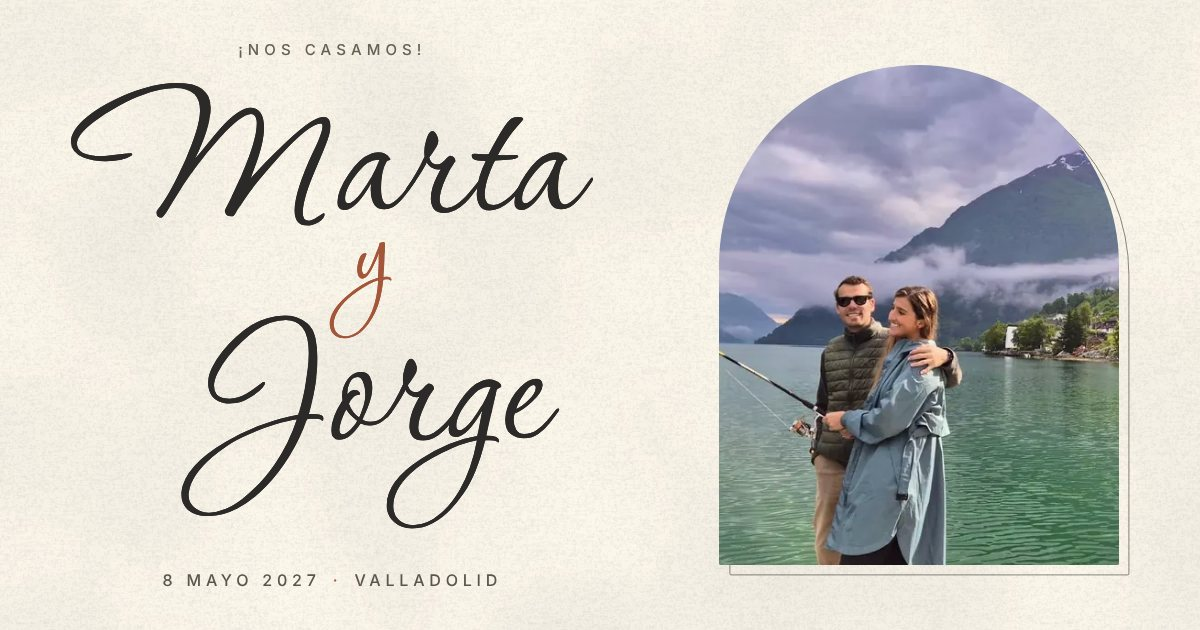
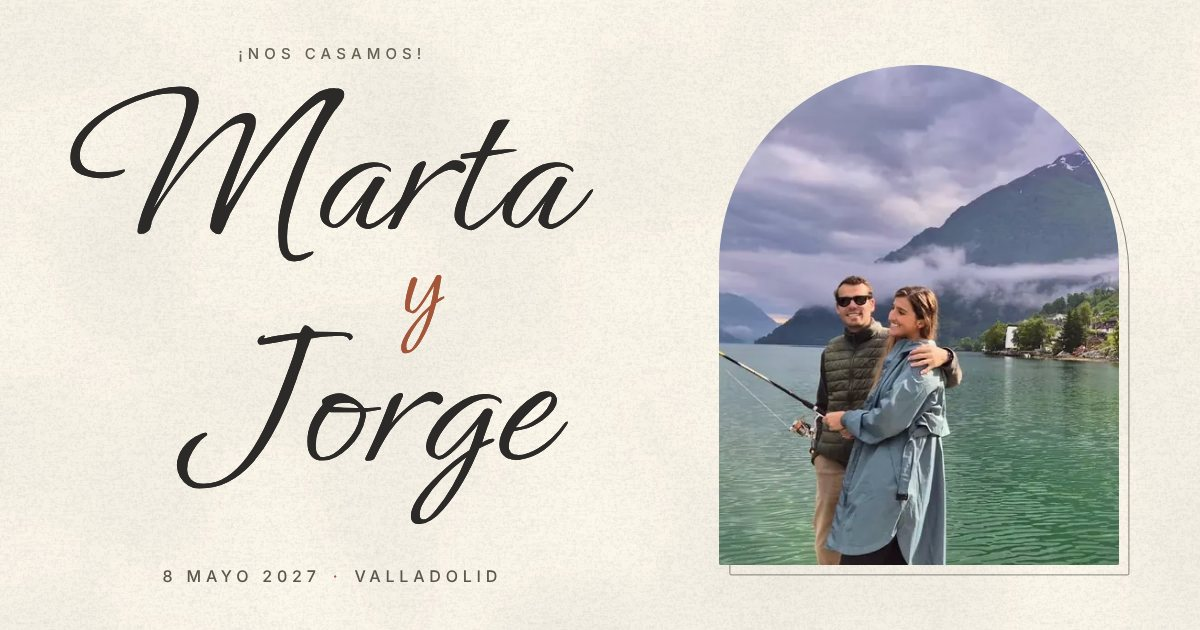
Caligrafía Ephesis para los nombres y los títulos
- «Marta y Jorge» y todos los títulos pasan a la Ephesis: pluma fina, elegante y con mayúsculas legibles. Los nombres
  se siguen escribiendo trazo a trazo; el generador (scripts/intro) usa ahora la fuente autoalojada por defecto
  (FUENTE=… para probar otra) y tiene un mecanismo de ajustes por letra (sentido, uniones y cortes de trazo).
- El «¡Gracias, nombre!» vuelve a la caligrafía, ya que con la Ephesis las iniciales de cualquier nombre se leen bien.
- Imagen para compartir (og.jpg) regenerada; README y docs al día. Se quita la Corinthia.

Claude-Session: https://claude.ai/code/session_012SwaV5w8ejSnD59z4DQnn6

Changed region(s): [[0.0617, 0.1206, 0.4933, 0.8444], [0.1233, 0.9048, 0.4317, 0.9349], [0.185, 0.0603, 0.3392, 0.0905]]

diff --git a/public/index.html b/public/index.html
@@ -52,7 +52,7 @@
       <p class="etiqueta portada__aviso intro" style="--d:.75s">¡Nos casamos!</p>
       <h1 class="nombres">
         <span class="sr-only">Marta y Jorge</span>
-        <svg class="nombres__svg" viewBox="-1199 -601 2398 2058" aria-hidden="true" focusable="false"><defs><path id="g1" d="M999 -72Q942 -72 942 -5Q942 39 966 112Q975 139 988.5 173.5Q1002 208 1021 248Q1031 269 1036.5 280.5Q1042 292 1046.5 302.5Q1051 313 1057 330Q1062 344 1064 353.5Q1066 363 1066 370Q1066 381 1059 381Q1008 381 877 238Q831 187 791 139Q751 91 719 44L686 -6Q684 -11 679.5 -17Q675 -23 670 -30Q667 -31 662 -31Q632 -31 632 -7Q632 -1 635 3Q636 5 645 21.5Q654 38 673 79Q774 290 774 381Q774 423 748 423Q706 423 608 316Q551 253 499.5 183Q448 113 400 33L378 -4Q362 -30 352 -37Q329 -37 329 -15Q329 -7 333 -3Q387 63 452 209Q487 287 504.5 344.5Q522 402 522 439Q522 539 412 539Q383 539 348 532Q313 525 272 510Q242 500 216 488Q190 476 160 459Q101 427 51 389Q-25 331 -25 292Q-25 236 84 236Q95 236 112 237.5Q129 239 148 242Q193 249 213 249Q221 249 221 245Q221 241 216 238Q182 214 103 214Q44 214 5 230Q-51 253 -51 301Q-51 353 24 413Q50 434 79 452Q108 470 145 488Q175 502 202 513Q229 524 266 535Q310 549 349.5 555Q389 561 423 561Q569 561 569 450Q569 361 497 221Q526 255 555.5 291.5Q585 328 611 358Q653 405 687 428Q721 451 746 451Q806 451 806 361Q806 282 745 135Q780 174 815.5 211Q851 248 890 285Q1000 391 1048 406Q1060 410 1070 410Q1101 410 1101 370Q1101 338 1081 289Q1064 246 1049.5 212.5Q1035 179 1018 137Q997 85 987.5 46.5Q978 8 978 -15Q978 -51 1005 -51Q1019 -51 1043 -34Q1068 -17 1071 -17Q1075 -17 1075 -22Q1075 -42 1048 -57Q1020 -72 999 -72Z"/><clipPath id="cp1"><use href="#g1"/></clipPath><path id="g2" d="M49 -3Q18 -3 18 31Q18 82 68 156Q117 229 165 246Q174 249 182 251Q190 253 198 253Q234 253 250 228Q253 224 253 221Q253 219 246 218Q240 217 236 211Q212 172 212 94Q212 22 243 22Q264 22 304 66Q310 72 321 87Q332 102 343 117.5Q354 133 358 138Q361 141 363 141Q367 141 367 134Q367 129 361 120Q339 85 311 52Q283 19 263 9Q245 0 227 0Q166 0 166 86Q166 93 166.5 100.5Q167 108 168 116Q100 -3 49 -3ZM66 27Q77 27 92 39.5Q107 52 123 73Q147 105 168 141Q189 177 205 219Q202 220 196 220Q155 220 113 169Q52 96 52 48Q52 27 66 27Z"/><clipPath id="cp2"><use href="#g2"/></clipPath><path id="g3" d="M203 -16Q169 -16 155.5 2Q142 20 142 48Q142 71 149.5 96.5Q157 122 168 144Q179 166 187 179Q184 178 181 177.5Q178 177 174 177Q160 177 143 187Q125 199 125 212Q119 198 108.5 180Q98 162 84 141Q47 83 35 83Q31 83 31 87Q31 91 37 99Q56 125 75.5 159Q95 193 115 235Q114 240 113.5 245Q113 250 113 257Q113 280 122 310Q133 348 149 348Q159 348 168 330Q171 323 173 316.5Q175 310 175 303Q175 279 134 230Q143 199 169 199Q188 199 204 218Q221 238 228 238Q237 238 244 231Q251 224 251 213Q251 214 238.5 195Q226 176 210 142Q194 108 187.5 84Q181 60 181 41Q181 6 214 6Q246 6 295 55Q311 72 332 98Q358 130 358 130Q362 130 362 124Q362 116 356 107Q342 85 325.5 63.5Q309 42 295 29Q249 -16 203 -16Z"/><clipPath id="cp3"><use href="#g3"/></clipPath><path id="g4" d="M108 -5Q77 -5 64 16Q51 37 51 68Q51 106 64 147.5Q77 189 92 216H86Q51 216 39.5 221.5Q28 227 28 240Q28 247 39 247L103 243Q128 293 153.5 336Q179 379 196 396Q210 410 235 410Q257 410 257 401Q257 399 256 398L213 347Q198 329 180 301Q162 273 144 241Q155 240 164.5 240Q174 240 181 240Q185 240 190 240.5Q195 241 202 241H223Q235 241 235 235Q235 220 132 217Q121 196 110 168.5Q99 141 92.5 114Q86 87 86 65Q86 19 125 19Q157 19 200 58Q217 74 229.5 90.5Q242 107 254 124Q260 133 265 133Q270 133 270 127Q270 123 268.5 119.5Q267 116 266 114Q253 97 237.5 77Q222 57 201 38Q152 -5 108 -5Z"/><clipPath id="cp4"><use href="#g4"/></clipPath><path id="g5" d="M49 -3Q18 -3 18 31Q18 82 68 156Q117 229 165 246Q174 249 182 251Q190 253 198 253Q234 253 250 228Q253 224 253 221Q253 219 246 218Q240 217 236 211Q212 172 212 94Q212 22 243 22Q264 22 304 66Q310 72 321 87Q332 102 343 117.5Q354 133 358 138Q361 141 363 141Q367 141 367 134Q367 129 361 120Q339 85 311 52Q283 19 263 9Q245 0 227 0Q166 0 166 86Q166 93 166.5 100.5Q167 108 168 116Q100 -3 49 -3ZM66 27Q77 27 92 39.5Q107 52 123 73Q147 105 168 141Q189 177 205 219Q202 220 196 220Q155 220 113 169Q52 96 52 48Q52 27 66 27Z"/><clipPath id="cp5"><use href="#g5"/></clipPath><path id="g6" d="M-100 -406Q-149 -406 -180 -378Q-213 -349 -213 -303Q-213 -197 -60 -98Q70 -15 189 4Q196 35 204 81Q212 127 221 188Q215 174 204 154Q193 134 178 112Q161 86 149 69.5Q137 53 125 41Q100 14 76 14Q44 14 44 70Q44 101 64 147Q86 199 115 199Q129 199 129 191Q129 190 124 181Q119 172 104 146Q79 102 79 77Q79 45 97 45Q129 45 232 246Q234 261 257 261Q275 261 275 253Q275 246 272 225Q269 204 262 168Q253 118 246 82.5Q239 47 229 5H233Q286 5 286 -22Q286 -28 283 -28Q282 -28 274 -23Q270 -21 263 -17.5Q256 -14 245 -14Q240 -14 235.5 -14Q231 -14 226 -15Q189 -163 131 -248Q23 -406 -100 -406ZM-95 -392Q-33 -392 26 -340Q73 -300 111 -235Q164 -144 188 -14Q123 -24 31 -71Q-62 -118 -108 -163Q-184 -235 -184 -306Q-184 -345 -160 -368Q-134 -392 -95 -392Z"/><clipPath id="cp6"><use href="#g6"/></clipPath><path id="g7" d="M13 -351Q-39 -351 -71 -324Q-101 -298 -101 -257V-245Q-87 -128 97 -21Q176 26 260.5 56Q345 86 418 99Q429 134 436 163Q443 192 448 220Q453 252 459 292.5Q465 333 465 372Q465 406 459 436.5Q453 467 436 487Q423 504 403.5 512Q384 520 363 520Q329 520 293.5 507Q258 494 229 474Q200 454 167.5 423.5Q135 393 107 357.5Q79 322 61.5 288Q44 254 44 228Q44 208 53 193Q62 178 84 173Q101 170 114 170Q134 170 152 176Q170 182 188 192Q205 202 221.5 214Q238 226 250 235Q262 244 262 244H267Q270 244 270 239Q270 235 267.5 230.5Q265 226 260 220Q244 201 214.5 182.5Q185 164 165 157Q154 153 138.5 151Q123 149 110 149Q102 149 93.5 150Q85 151 76 154Q46 164 32 187Q18 210 18 240Q18 271 35 307Q52 343 80.5 379Q109 415 143 445.5Q177 476 211 497Q242 515 281 527Q320 539 359 539H363Q390 539 415 530Q440 521 459 504Q485 481 494 440.5Q503 400 503 354Q503 321 500.5 285Q498 249 492 220L490 210Q485 184 479.5 157Q474 130 465 102H474Q504 102 517 98Q530 94 530 82Q530 72 525 72L516 79Q512 81 501 81Q490 81 482 81Q475 81 469.5 81Q464 81 457 79Q427 -6 379.5 -83.5Q332 -161 273 -221.5Q214 -282 149 -316.5Q84 -351 19 -351ZM24 -336Q59 -334 95 -319.5Q131 -305 170 -275Q251 -212 314 -120.5Q377 -29 412 79Q372 73 316.5 56.5Q261 40 199 12Q141 -13 103 -38.5Q65 -64 35 -90Q-11 -130 -37 -169Q-63 -208 -68 -246Q-69 -252 -69 -254.5Q-69 -257 -69 -259Q-69 -279 -62.5 -290Q-56 -301 -46 -311Q-35 -321 -18 -329Q-1 -337 24 -336Z"/><clipPath id="cp7"><use href="#g7"/></clipPath><path id="g8" d="M59 -12Q24 -12 24 29Q24 86 74 163Q73 168 72.5 174Q72 180 72 185Q72 221 96 255Q120 289 155 289Q185 289 195.5 268Q206 247 206 221Q206 199 201 179Q196 158 186 132Q176 106 161 77Q176 68 195 68Q212 68 227 72.5Q242 77 255 90Q268 103 275.5 113Q283 123 282 122Q284 124 286 124Q290 124 292.5 119Q295 114 291 109Q275 86 249.5 68.5Q224 51 194 51Q171 51 154 61Q108 -12 59 -12ZM148 86Q161 118 168 141Q175 164 175 184V192Q175 219 166 242.5Q157 266 140 266Q117 266 104 238Q95 219 95 196V190Q111 209 127 209Q142 209 149 199Q152 195 152 192Q152 186 140 186Q122 186 102 148Q116 109 148 86ZM75 12Q88 12 112 36Q122 46 129 55Q136 64 140 72Q106 95 90 123Q60 60 60 32Q60 12 75 12Z"/><clipPath id="cp8"><use href="#g8"/></clipPath><path id="g9" d="M203 -16Q169 -16 155.5 2Q142 20 142 48Q142 71 149.5 96.5Q157 122 168 144Q179 166 187 179Q184 178 181 177.5Q178 177 174 177Q160 177 143 187Q125 199 125 212Q119 198 108.5 180Q98 162 84 141Q47 83 35 83Q31 83 31 87Q31 91 37 99Q56 125 75.5 159Q95 193 115 235Q114 240 113.5 245Q113 250 113 257Q113 280 122 310Q133 348 149 348Q159 348 168 330Q171 323 173 316.5Q175 310 175 303Q175 279 134 230Q143 199 169 199Q188 199 204 218Q221 238 228 238Q237 238 244 231Q251 224 251 213Q251 214 238.5 195Q226 176 210 142Q194 108 187.5 84Q181 60 181 41Q181 6 214 6Q246 6 295 55Q311 72 332 98Q358 130 358 130Q362 130 362 124Q362 116 356 107Q342 85 325.5 63.5Q309 42 295 29Q249 -16 203 -16Z"/><clipPath id="cp9"><use href="#g9"/></clipPath><path id="g10" d="M-141 -406Q-190 -406 -221 -378Q-254 -349 -254 -303Q-254 -196 -102 -98Q27 -15 148 4Q152 23 157.5 52Q163 81 171 119Q103 0 52 0Q21 0 21 34Q21 85 71 159Q120 232 168 249Q177 252 185.5 254Q194 256 201 256Q217 256 235 247Q243 243 249 237.5Q255 232 255 225Q255 221 246 218Q237 215 234 209L223 158Q218 133 208.5 94.5Q199 56 188 5H192Q245 5 245 -18Q245 -24 241 -24Q241 -24 233 -19Q225 -14 204 -14Q199 -14 194 -14Q189 -14 184 -15Q165 -90 141 -148.5Q117 -207 89 -248Q-19 -406 -141 -406ZM69 30Q80 30 95 42.5Q110 55 126 76Q150 108 171 144Q192 180 208 222Q205 223 199 223Q158 223 116 172Q55 99 55 51Q55 30 69 30ZM-137 -392Q-74 -392 -15 -340Q32 -300 70 -235Q123 -144 147 -14Q82 -24 -10 -71Q-56 -94 -91 -117Q-126 -140 -150 -163Q-225 -235 -225 -306Q-225 -345 -201 -368Q-175 -392 -137 -392Z"/><clipPath id="cp10"><use href="#g10"/></clipPath><path id="g11" d="M112 -6Q79 -6 54 13Q29 32 29 77Q29 104 41 135.5Q53 167 73.5 195Q94 223 119 241Q144 259 170 259Q180 259 187.5 252Q195 245 195 231Q195 200 148 156Q129 138 108.5 124Q88 110 71 104Q67 91 67 74Q67 51 78 32Q89 13 113 13Q143 13 168 30Q193 47 214 71.5Q235 96 251 117Q258 127 265 127Q269 127 269 123Q269 121 268 118.5Q267 116 266 114Q249 90 227 62Q205 34 177 14Q149 -6 112 -6ZM78 124Q104 135 132 163Q165 195 165 219Q165 231 153 231Q137 231 109 185Q84 147 78 124Z"/><clipPath id="cp11"><use href="#g11"/></clipPath></defs><g class="pal pal--marta" transform="translate(-1108 0) scale(1 -1)"><g transform="translate(0 0)"><g clip-path="url(#cp1)"><path class="tz" pathLength="1" stroke-width="46" style="--d:0.00s;--t:0.16s" d="M214 246L167 234L86 226L17 236L-4 245L-25 261L-33 274L-38 298L-36 316L-29 333L2 373L51 412L116 455L201 499L301 535L357 547L432 551L474 544L511 525L534 494L547 489L551 486L547 489L534 494L543 454L550 451L556 442L550 451L543 454L536 383L523 336L489 249L482 214L382 38L360 4L344 -14"/><path class="tz" pathLength="1" stroke-width="46" style="--d:0.18s;--t:0.12s" d="M488 183L490 192L489 203L482 214L517 230L619 349L687 413L717 431L737 436L761 435L776 424L785 401L789 363L774 278L732 161L723 113L710 115L699 109L691 102L686 95L681 89L677 83L673 76L677 83L681 89L686 95L691 102L699 109L710 115L723 113L735 103L734 88L731 76L725 60L720 50L716 43L711 34L716 43L720 50L725 60L731 76L734 88L735 103L723 113L659 -1L659 -12"/><path class="tz" pathLength="1" stroke-width="46" style="--d:0.32s;--t:0.10s" d="M1071 -21L1056 -37L1031 -53L1012 -58L991 -59L977 -53L968 -42L960 -7L963 33L987 116L1060 289L1079 344L1081 374L1077 388L1071 393L1034 389L986 358L870 251L767 138L756 129L726 118"/></g><use class="rl" href="#g1" style="--d:0.36s"/></g><g transform="translate(1114 0)"><g clip-path="url(#cp2)"><path class="tz" pathLength="1" stroke-width="46" style="--d:0.44s;--t:0.10s" d="M188 116L219 226L233 224L219 226L213 235L188 237L155 226L131 210L104 183L66 131L44 88L37 66L35 30L43 18L60 16L88 26L122 60L157 111L176 121L184 119L187 113L192 58L205 26L226 13L258 18L285 37L314 68L363 136"/></g><use class="rl" href="#g2" style="--d:0.48s"/></g><g transform="translate(1405 0)"><g clip-path="url(#cp3)"><path class="tz" pathLength="1" stroke-width="46" style="--d:0.56s;--t:0.08s" d="M33 86L73 141L112 210L122 221L128 258L151 325L161 312L164 300"/><path class="tz" pathLength="1" stroke-width="46" style="--d:0.66s;--t:0.08s" d="M251 213L229 216L203 186L197 161L169 96L162 48L167 20L178 4L194 -3L214 -3L236 2L264 18L310 60L359 128"/><path class="tz" pathLength="1" stroke-width="46" style="--d:0.76s;--t:0.08s" d="M201 186L151 195L123 218"/></g><use class="rl" href="#g3" style="--d:0.78s"/></g><g transform="translate(1700 0)"><g clip-path="url(#cp4)"><path class="tz" pathLength="1" stroke-width="45" style="--d:0.86s;--t:0.08s" d="M246 403L218 388L190 355L137 270L123 235L106 228L55 234L38 238"/><path class="tz" pathLength="1" stroke-width="45" style="--d:0.96s;--t:0.08s" d="M231 238L166 230L136 231L126 237"/><path class="tz" pathLength="1" stroke-width="45" style="--d:1.06s;--t:0.08s" d="M266 132L210 59L170 26L148 15L128 11L106 10L90 15L73 37L68 62L68 87L76 130L103 203L106 227"/></g><use class="rl" href="#g4" style="--d:1.08s"/></g><g transform="translate(1900 0)"><g clip-path="url(#cp5)"><path class="tz" pathLength="1" stroke-width="46" style="--d:1.16s;--t:0.10s" d="M188 116L219 226L233 224L219 226L213 235L188 237L155 226L131 210L104 183L66 131L44 88L37 66L35 30L43 18L60 16L88 26L122 60L157 111L176 121L184 119L187 113L192 58L205 26L226 13L258 18L285 37L314 68L363 136"/></g><use class="rl" href="#g5" style="--d:1.20s"/></g></g><g class="pal pal--y" transform="rotate(-8.0 120 362) translate(98 319) scale(0.6 -0.6)"><g transform="translate(0 0)"><g clip-path="url(#cp6)"><path class="tz" pathLength="1" stroke-width="43" style="--d:1.36s;--t:0.20s" d="M115 191L102 178L81 144L64 98L64 51L71 38L82 34L105 40L122 51L176 128L209 184L230 197L236 198L262 242L250 246L262 242L236 198L240 195L248 197L240 195L231 121L208 1L200 -5L172 -6L119 -21L50 -48L-38 -95L-106 -143L-134 -169L-169 -211L-190 -252L-199 -284L-200 -309L-197 -331L-189 -349L-171 -372L-145 -389L-118 -397L-83 -397L-61 -394L-21 -380L35 -343L69 -311L102 -269L147 -192L180 -111L197 -56L205 -6"/><path class="tz" pathLength="1" stroke-width="43" style="--d:1.58s;--t:0.08s" d="M282 -24L267 -10L222 -3L210 4"/></g><use class="rl" href="#g6" style="--d:1.60s"/></g></g><g class="pal pal--jorge" transform="translate(-568 1011) scale(1 -1)"><g transform="translate(0 0)"><g clip-path="url(#cp7)"><path class="tz" pathLength="1" stroke-width="42" style="--d:1.76s;--t:0.29s" d="M266 241L219 200L191 183L152 166L106 161L61 173L45 187L37 201L31 242L43 291L78 349L126 407L179 457L231 493L272 513L326 528L367 531L411 521L429 511L447 495L464 471L477 431L482 377L482 324L467 207L472 202L476 190L472 202L467 207L480 218L489 239L480 218L467 207L444 106L435 86L429 83L411 89L366 80L236 39L134 -8L51 -60L-27 -129L-53 -163L-72 -196L-83 -226L-86 -259L-77 -294L-59 -316L-41 -329L-11 -340L6 -343L51 -340L122 -317L157 -298L201 -267L231 -241L281 -189L333 -123L361 -78L395 -14L423 49L431 79"/><path class="tz" pathLength="1" stroke-width="42" style="--d:2.06s;--t:0.08s" d="M526 79L512 90L457 93L444 101"/></g><use class="rl" href="#g7" style="--d:2.08s"/></g><g transform="translate(541 0)"><g clip-path="url(#cp8)"><path class="tz" pathLength="1" stroke-width="39" style="--d:2.16s;--t:0.08s" d="M146 192L134 197L122 195L90 173L84 143L67 121L48 76L41 36L44 16L56 3L79 4L96 11L114 26L147 69L181 151L189 207L185 242L174 266L156 278L132 276L110 262L89 227L82 186L89 174"/><path class="tz" pathLength="1" stroke-width="39" style="--d:2.26s;--t:0.08s" d="M151 72L172 64L191 61L214 63L232 68L261 87L286 117"/><path class="tz" pathLength="1" stroke-width="39" style="--d:2.36s;--t:0.08s" d="M151 77L122 97L98 129L84 139"/></g><use class="rl" href="#g8" style="--d:2.38s"/></g><g transform="translate(770 0)"><g clip-path="url(#cp9)"><path class="tz" pathLength="1" stroke-width="46" style="--d:2.46s;--t:0.08s" d="M33 86L73 141L112 210L122 221L128 258L151 325L161 312L164 300"/><path class="tz" pathLength="1" stroke-width="46" style="--d:2.56s;--t:0.08s" d="M251 213L229 216L203 186L197 161L169 96L162 48L167 20L178 4L194 -3L214 -3L236 2L264 18L310 60L359 128"/><path class="tz" pathLength="1" stroke-width="46" style="--d:2.66s;--t:0.08s" d="M201 186L151 195L123 218"/></g><use class="rl" href="#g9" style="--d:2.68s"/></g><g transform="translate(1065 0)"><g clip-path="url(#cp10)"><path class="tz" pathLength="1" stroke-width="39" style="--d:2.76s;--t:0.09s" d="M189 123L176 123L160 114L125 63L88 27L54 18L46 21L39 29L39 61L47 91L69 134L107 186L134 213L158 229L191 240L211 239L220 235L222 224L237 227L222 224L216 198L189 119L195 118L189 119L170 8L179 -3L224 -7L241 -17"/><path class="tz" pathLength="1" stroke-width="39" style="--d:2.87s;--t:0.12s" d="M164 -6L143 -97L122 -157L85 -231L55 -276L21 -317L-7 -343L-49 -373L-96 -392L-126 -397L-152 -397L-177 -392L-209 -375L-230 -349L-238 -331L-241 -309L-237 -269L-220 -227L-208 -207L-174 -167L-131 -130L-74 -91L1 -51L61 -27L131 -6L159 -5L169 4"/></g><use class="rl" href="#g10" style="--d:2.93s"/></g><g transform="translate(1308 0)"><g clip-path="url(#cp11)"><path class="tz" pathLength="1" stroke-width="39" style="--d:3.01s;--t:0.08s" d="M266 126L212 59L184 31L162 17L131 6L101 6L79 13L63 27L51 52L47 82L52 112L65 147L87 186L112 219L137 240L161 245L173 241L178 227L171 202L158 181L102 130L76 117L67 117L59 122"/></g><use class="rl" href="#g11" style="--d:3.03s"/></g></g></svg>
+        <svg class="nombres__svg" viewBox="-1264 -696 2529 2129" aria-hidden="true" focusable="false"><defs><path id="g1" d="M1003 -163Q939 -163 930 -77Q927 -48 927 -19Q927 45 945.5 117Q964 189 994.5 265Q1025 341 1063.5 418Q1102 495 1142 568Q1149 579 1149 587Q1149 594 1144 594Q1125 594 1051 529Q1011 494 976 454.5Q941 415 913 380Q875 331 848.5 296.5Q822 262 808 240Q790 213 764.5 169.5Q739 126 705 67Q704 66 678 5Q661 -36 650 -36Q633 -34 619.5 -22.5Q606 -11 608 3Q613 46 635 114Q657 182 697 276Q772 456 772 474Q772 487 752 487Q679 487 511 288Q344 89 329 -2Q327 -16 313 -25Q299 -34 284 -34Q268 -34 268 -23Q268 40 366 244Q439 394 452 425Q472 474 484 514.5Q496 555 496 580Q496 609 482 617Q468 625 436 625Q337 625 204 563Q164 544 129 519Q94 494 63 462Q-3 393 -3 337Q-3 318 2 302.5Q7 287 22 275Q34 265 57.5 259.5Q81 254 109 254Q153 254 199 266Q201 267 205 267Q209 267 209 264Q209 256 193 247.5Q177 239 152.5 233Q128 227 101 227Q50 227 5 244Q-47 263 -47 322Q-47 367 -18 417Q8 461 69 509Q104 536 153.5 562.5Q203 589 258.5 610Q314 631 368.5 643.5Q423 656 468 656Q554 656 554 592Q554 560 529 495Q504 430 460 338Q429 273 400 209.5Q371 146 339 81Q340 79 443 233Q469 271 505.5 314.5Q542 358 591 405Q680 491 727 517Q754 532 781 532Q822 532 822 490Q822 475 818 460Q793 399 759 310.5Q725 222 681 105Q679 99 679 97Q679 96 680 96Q685 96 758 211Q799 277 828.5 320.5Q858 364 875 384Q1014 556 1102 621Q1138 648 1191 648Q1236 648 1236 620Q1236 599 1210 567Q1115 447 1041 243Q1007 148 987.5 79.5Q968 11 968 -47Q968 -99 978.5 -117Q989 -135 1009 -135Q1023 -135 1039.5 -130.5Q1056 -126 1076 -119Q1080 -118 1082.5 -117.5Q1085 -117 1087 -117Q1092 -117 1092 -120Q1092 -130 1063 -145Q1032 -163 1003 -163Z"/><clipPath id="cp1"><use href="#g1"/></clipPath><path id="g2" d="M280 -11Q260 -11 243.5 2Q227 15 224 27Q221 41 261 127L238 94Q223 72 208 55Q193 38 180 25Q142 -11 116 -5Q56 9 56 63Q56 106 97 173Q110 193 130 213Q150 233 176 252Q243 301 305 301Q343 301 377 281Q388 273 388 264Q388 257 384 257Q383 257 382 258Q361 281 326 281Q285 281 237 250Q189 219 151 167Q97 92 97 45Q97 18 116 11Q140 1 218 100Q250 139 271.5 170Q293 201 306 223Q312 234 328 234Q358 234 358 216Q358 213 357 212Q270 74 270 25Q270 13 277 12Q298 6 347 43Q406 87 458 160Q469 175 478 175Q481 175 481 173Q481 168 472 154Q451 121 425.5 92Q400 63 369 38Q325 1 297 -8Q290 -11 280 -11Z"/><clipPath id="cp2"><use href="#g2"/></clipPath><path id="g3" d="M28 -12Q14 -12 14 -3Q14 -2 16 4Q63 94 127 261Q134 279 151 292.5Q168 306 180 306Q193 306 191 292Q181 271 167 238Q153 205 134 161Q162 198 217 244Q245 267 265.5 282Q286 297 300 304Q314 311 331 311Q351 311 365 301Q379 291 379 278Q379 270 371.5 260.5Q364 251 356 251Q352 251 339.5 259.5Q327 268 313 268Q298 268 278 259Q151 202 59 2Q53 -12 28 -12Z"/><clipPath id="cp3"><use href="#g3"/></clipPath><path id="g4" d="M133 -17Q56 0 56 53Q56 68 61 88.5Q66 109 77 134L162 325Q147 323 129 321Q111 319 89 317Q85 317 85 324Q85 338 90 340L174 352L239 484Q248 502 295 502Q317 502 314 497Q292 462 269.5 426.5Q247 391 225 356Q228 357 238 358Q248 359 264 360Q276 361 287 361.5Q298 362 308 362Q350 362 348 358Q341 351 212 331Q103 125 103 40Q103 9 121 3Q135 -1 192 40Q225 64 252 92.5Q279 121 301 153Q308 163 314 163Q318 163 318 159Q318 155 313 147Q275 86 212 32Q151 -21 133 -17Z"/><clipPath id="cp4"><use href="#g4"/></clipPath><path id="g5" d="M280 -11Q260 -11 243.5 2Q227 15 224 27Q221 41 261 127L238 94Q223 72 208 55Q193 38 180 25Q142 -11 116 -5Q56 9 56 63Q56 106 97 173Q110 193 130 213Q150 233 176 252Q243 301 305 301Q343 301 377 281Q388 273 388 264Q388 257 384 257Q383 257 382 258Q361 281 326 281Q285 281 237 250Q189 219 151 167Q97 92 97 45Q97 18 116 11Q140 1 218 100Q250 139 271.5 170Q293 201 306 223Q312 234 328 234Q358 234 358 216Q358 213 357 212Q270 74 270 25Q270 13 277 12Q298 6 347 43Q406 87 458 160Q469 175 478 175Q481 175 481 173Q481 168 472 154Q451 121 425.5 92Q400 63 369 38Q325 1 297 -8Q290 -11 280 -11Z"/><clipPath id="cp5"><use href="#g5"/></clipPath><path id="g6" d="M9 -308Q-29 -308 -29 -270Q-29 -239 -2 -196Q15 -169 41.5 -138.5Q68 -108 105 -74Q171 -10 245 37Q262 79 274.5 117Q287 155 296 188Q289 176 219 94Q134 -6 102 -6Q98 -6 96 -5L66 11Q52 19 49 26.5Q46 34 46 42Q46 69 62 119Q78 169 112 241Q127 273 146 273Q160 273 173 252L129 165Q82 73 82 37Q82 13 98 13Q130 13 218 122Q247 157 271.5 189.5Q296 222 316 253Q323 263 336 263Q360 263 360 245Q360 241 357 236Q349 208 335.5 167.5Q322 127 303 72Q335 91 354 91Q362 91 362 87Q362 77 337 68Q327 64 315.5 59Q304 54 291 47Q221 -127 122 -240Q62 -308 9 -308ZM30 -287Q49 -287 76 -256Q165 -156 232 6Q99 -93 34 -200Q12 -235 12 -262Q12 -287 30 -287Z"/><clipPath id="cp6"><use href="#g6"/></clipPath><path id="g7" d="M33 -142Q5 -142 -19 -127Q-43 -112 -57.5 -87Q-72 -62 -72 -33Q-72 10 -43 50.5Q-14 91 44 115Q55 119 62 119Q70 119 70 113Q70 108 65 105Q40 88 20 61.5Q0 35 -12 5.5Q-24 -24 -24 -50Q-24 -79 -6 -99Q12 -119 54 -119Q113 -119 163.5 -85Q214 -51 256.5 6.5Q299 64 335 136.5Q371 209 402 287Q433 365 459 438Q481 499 488 529Q495 559 493 559Q486 559 462.5 555Q439 551 398 543Q321 529 317 532Q306 537 306 547Q306 557 315 566Q324 575 334 575Q338 575 340 574L341 573Q341 571 338 567.5Q335 564 335 563Q337 561 339 561Q343 561 353 564Q364 568 383.5 571Q403 574 431 578Q466 583 485 585Q504 587 506 588L514 605Q523 623 531 623Q543 623 573 593Q719 593 738 584Q750 578 752 569Q752 561 743 555Q735 550 734 556Q731 574 692 574Q683 574 665 573Q647 572 640 572Q616 572 556 561Q542 525 524 472Q506 419 486 362.5Q466 306 446 258Q411 174 369.5 101.5Q328 29 278 -26Q228 -81 167.5 -111.5Q107 -142 33 -142Z"/><clipPath id="cp7"><use href="#g7"/></clipPath><path id="g8" d="M129 -11Q56 -11 56 79Q56 169 128 251Q129 252 127 258.5Q125 265 125 268Q125 274 129 277Q164 305 211 305Q224 305 232 300Q242 296 251 292Q260 288 268 283Q306 260 321 235Q346 236 363 237Q380 238 389 239H393Q402 239 402 232Q402 230 398 229Q387 227 369.5 224Q352 221 327 218Q330 211 330 202Q330 195 329 192Q314 111 250 50Q188 -11 129 -11ZM297 235Q281 260 234 260Q198 260 187 252Q184 251 181 248Q178 245 174 241Q230 234 297 235ZM132 5Q176 5 233 68Q291 131 302 190Q303 195 303.5 198.5Q304 202 304 205Q304 211 302 217Q283 216 263 216Q243 216 223 216Q203 216 186.5 216Q170 216 157 217Q117 163 107 130Q95 93 95 59Q95 5 132 5Z"/><clipPath id="cp8"><use href="#g8"/></clipPath><path id="g9" d="M28 -12Q14 -12 14 -3Q14 -2 16 4Q63 94 127 261Q134 279 151 292.5Q168 306 180 306Q193 306 191 292Q181 271 167 238Q153 205 134 161Q162 198 217 244Q245 267 265.5 282Q286 297 300 304Q314 311 331 311Q351 311 365 301Q379 291 379 278Q379 270 371.5 260.5Q364 251 356 251Q352 251 339.5 259.5Q327 268 313 268Q298 268 278 259Q151 202 59 2Q53 -12 28 -12Z"/><clipPath id="cp9"><use href="#g9"/></clipPath><path id="g10" d="M-3 -308Q-41 -308 -41 -270Q-41 -239 -14 -196Q3 -169 29.5 -138.5Q56 -108 93 -74Q159 -10 233 37Q242 59 253 91Q264 123 278 167Q275 160 256.5 138.5Q238 117 203 79Q119 -14 84 -5Q30 9 30 55Q30 100 83 173Q98 193 120 213Q142 233 170 252Q241 301 304 301Q343 301 375 281Q384 275 384 266Q384 257 380 257Q379 257 378 258Q358 281 323 281Q282 281 231 250Q180 219 137 167Q70 85 70 39Q70 18 86 11Q108 2 197 100Q232 139 257.5 170Q283 201 298 223Q305 233 318 233Q342 233 342 215Q342 211 339 206Q332 186 320 152.5Q308 119 291 72Q323 91 342 91Q350 91 350 87Q350 77 325 68Q315 64 303.5 59Q292 54 279 47Q209 -127 110 -240Q50 -308 -3 -308ZM18 -287Q37 -287 64 -256Q153 -156 220 6Q87 -93 22 -200Q0 -235 0 -262Q0 -287 18 -287Z"/><clipPath id="cp10"><use href="#g10"/></clipPath><path id="g11" d="M112 -8Q83 -8 61 6Q32 26 32 64Q32 105 67 164Q114 241 205 299Q228 314 251 314Q281 314 294 295Q302 284 302 270Q302 228 234 178Q214 164 191.5 152.5Q169 141 143 136L100 127Q76 84 76 55Q76 15 123 15Q160 15 213 46Q284 87 335 160Q343 172 350 172Q353 172 353 168Q353 163 346 153Q249 7 127 -7Q123 -8 119.5 -8Q116 -8 112 -8ZM112 144Q140 144 184 169Q246 204 271 259Q278 273 278 282Q278 291 271 291Q258 291 218 259Q189 234 161.5 205.5Q134 177 109 145Q108 144 112 144Z"/><clipPath id="cp11"><use href="#g11"/></clipPath></defs><g class="pal pal--marta" transform="translate(-1178 0) scale(1 -1)"><g transform="translate(0 0)"><g clip-path="url(#cp1)"><path class="tz" pathLength="1" stroke-width="52" style="--d:0.00s;--t:0.18s" d="M206 266L191 257L153 247L123 243L86 243L28 254L-7 274L-17 289L-23 308L-25 326L-21 361L-1 411L34 458L83 503L146 547L203 577L300 614L365 632L461 641L496 634L509 624L517 611L530 609L517 611L521 586L531 583L535 577L537 571L535 577L531 583L521 586L517 548L523 541L517 548L498 486L464 401L330 116L322 74L313 73L305 69L313 73L322 74L302 14L310 7L302 14L286 -12"/><path class="tz" pathLength="1" stroke-width="52" style="--d:0.20s;--t:0.14s" d="M329 67L323 74L345 83L356 93L467 253L506 301L596 399L643 442L695 482L733 501L780 508L789 501L797 504L789 501L794 491L788 454L768 396L661 123L655 78L657 61L641 61L631 53L641 61L657 61L672 51L657 61L642 16L657 14L642 16L643 -4L645 -13L643 -4L629 -2"/><path class="tz" pathLength="1" stroke-width="52" style="--d:0.36s;--t:0.19s" d="M658 68L698 91L796 249L840 313L930 428L1006 513L1065 567L1116 607L1153 617L1171 617L1177 628L1171 617L1177 612L1212 622L1214 601L1211 585L1208 576L1211 585L1214 601L1212 622L1177 612L1180 604L1167 561L1083 409L1019 263L977 139L951 31L946 -16L950 -77L957 -112L968 -132L988 -145L1013 -146L1053 -136L1090 -117"/></g><use class="rl" href="#g1" style="--d:0.49s"/></g><g transform="translate(1067 0)"><g clip-path="url(#cp2)"><path class="tz" pathLength="1" stroke-width="50" style="--d:0.57s;--t:0.09s" d="M383 259L373 275L349 286L318 291L289 290L243 274L186 237L151 204L123 171L103 139L83 96L77 69L83 34L94 15L113 6L131 5L151 16L183 44L240 114L277 132L283 130L291 132L283 130L277 132L322 206L334 218"/><path class="tz" pathLength="1" stroke-width="50" style="--d:0.67s;--t:0.08s" d="M273 128L266 93L252 56L250 34L257 14L264 6L276 3L296 5L338 27L386 65L433 116L476 173"/></g><use class="rl" href="#g2" style="--d:0.69s"/></g><g transform="translate(1427 0)"><g clip-path="url(#cp3)"><path class="tz" pathLength="1" stroke-width="52" style="--d:0.77s;--t:0.08s" d="M17 -2L32 5L47 24L115 160L122 191L146 251L177 294"/><path class="tz" pathLength="1" stroke-width="52" style="--d:0.87s;--t:0.08s" d="M116 158L127 157L144 164L212 230L244 255L281 276L327 289L339 287L356 278"/></g><use class="rl" href="#g3" style="--d:0.89s"/></g><g transform="translate(1696 0)"><g clip-path="url(#cp4)"><path class="tz" pathLength="1" stroke-width="56" style="--d:0.97s;--t:0.09s" d="M311 499L284 488L261 468L212 382L204 356L180 328L174 304L129 209L102 142L85 90L81 55L89 24L101 6L123 -4L146 -1L223 54L278 112L313 160"/><path class="tz" pathLength="1" stroke-width="56" style="--d:1.08s;--t:0.08s" d="M96 329L156 337L169 337L179 332L216 348L229 347L348 360"/></g><use class="rl" href="#g4" style="--d:1.10s"/></g><g transform="translate(1921 0)"><g clip-path="url(#cp5)"><path class="tz" pathLength="1" stroke-width="50" style="--d:1.18s;--t:0.09s" d="M383 259L373 275L349 286L318 291L289 290L243 274L186 237L151 204L123 171L103 139L83 96L77 69L83 34L94 15L113 6L131 5L151 16L183 44L240 114L277 132L283 130L291 132L283 130L277 132L322 206L334 218"/><path class="tz" pathLength="1" stroke-width="50" style="--d:1.28s;--t:0.08s" d="M273 128L266 93L252 56L250 34L257 14L264 6L276 3L296 5L338 27L386 65L433 116L476 173"/></g><use class="rl" href="#g5" style="--d:1.30s"/></g></g><g class="pal pal--y" transform="rotate(-8.0 420 407) translate(320 397) scale(0.6 -0.6)"><g transform="translate(0 0)"><g clip-path="url(#cp6)"><path class="tz" pathLength="1" stroke-width="48" style="--d:1.46s;--t:0.08s" d="M144 250L113 191L82 120L65 63L65 43L71 25L84 11L103 6L124 15L163 47L279 183L316 204L323 202L316 204L335 240L346 248"/><path class="tz" pathLength="1" stroke-width="48" style="--d:1.56s;--t:0.10s" d="M353 86L309 68L280 70L256 20L223 12L196 -7L129 -64L67 -127L25 -182L5 -215L-4 -235L-9 -265L-3 -285L13 -295L41 -292L63 -280L102 -244L170 -152L237 -27L249 13"/><path class="tz" pathLength="1" stroke-width="48" style="--d:1.68s;--t:0.08s" d="M314 200L309 161L290 101L284 73"/></g><use class="rl" href="#g6" style="--d:1.70s"/></g></g><g class="pal pal--jorge" transform="translate(-654 1085) scale(1 -1)"><g transform="translate(0 0)"><g clip-path="url(#cp7)"><path class="tz" pathLength="1" stroke-width="52" style="--d:1.86s;--t:0.08s" d="M338 575L326 558L327 551L331 549L491 573L510 569L517 555L527 552L531 543L527 552L517 555L533 581L540 584L533 601L540 584L558 580L700 583L733 575L738 568L736 558"/><path class="tz" pathLength="1" stroke-width="52" style="--d:1.96s;--t:0.15s" d="M517 555L498 476L502 472L505 466L506 462L505 441L506 462L505 466L502 472L498 476L429 288L462 323L480 357L462 323L429 288L370 156L321 66L258 -19L228 -50L186 -84L148 -107L118 -119L58 -129L21 -127L-9 -116L-29 -97L-42 -67L-48 -25L-37 13L-8 60L18 86L40 103L61 113"/></g><use class="rl" href="#g7" style="--d:2.05s"/></g><g transform="translate(483 0)"><g clip-path="url(#cp8)"><path class="tz" pathLength="1" stroke-width="48" style="--d:2.13s;--t:0.08s" d="M306 230L299 248L273 267L236 277L199 282L166 272L153 260L145 265L153 260L150 244L168 230L319 227L398 233"/><path class="tz" pathLength="1" stroke-width="48" style="--d:2.23s;--t:0.08s" d="M149 242L128 218L93 162L78 115L74 87L77 48L86 20L101 5L126 -3L151 0L183 13L216 36L244 62L279 107L300 145L314 185L316 225"/></g><use class="rl" href="#g8" style="--d:2.25s"/></g><g transform="translate(796 0)"><g clip-path="url(#cp9)"><path class="tz" pathLength="1" stroke-width="52" style="--d:2.33s;--t:0.08s" d="M17 -2L32 5L47 24L115 160L122 191L146 251L177 294"/><path class="tz" pathLength="1" stroke-width="52" style="--d:2.43s;--t:0.08s" d="M116 158L127 157L144 164L212 230L244 255L281 276L327 289L339 287L356 278"/></g><use class="rl" href="#g9" style="--d:2.45s"/></g><g transform="translate(1065 0)"><g clip-path="url(#cp10)"><path class="tz" pathLength="1" stroke-width="47" style="--d:2.53s;--t:0.19s" d="M379 259L376 269L364 280L347 286L317 291L276 288L236 272L196 249L147 211L118 181L77 124L54 76L52 48L56 29L65 16L76 8L92 5L117 14L157 46L264 163L286 173L292 172L312 209L321 214L312 209L292 172L295 164L307 169L295 164L291 144L273 78L243 19L209 11L151 -33L68 -112L12 -182L-11 -222L-18 -246L-20 -276L-8 -293L2 -296L24 -293L46 -284L79 -256L116 -211L161 -146L199 -81L231 -14L237 13"/><path class="tz" pathLength="1" stroke-width="47" style="--d:2.74s;--t:0.08s" d="M272 74L282 67L294 67L342 88"/></g><use class="rl" href="#g10" style="--d:2.76s"/></g><g transform="translate(1406 0)"><g clip-path="url(#cp11)"><path class="tz" pathLength="1" stroke-width="49" style="--d:2.84s;--t:0.10s" d="M89 149L109 137L145 144L175 155L217 179L257 214L278 242L288 267L287 284L280 297L264 303L247 301L227 292L169 247L130 211L96 169L63 107L56 82L55 61L62 32L75 16L92 7L122 6L159 11L190 23L252 61L286 91L350 171"/></g><use class="rl" href="#g11" style="--d:2.88s"/></g></g></svg>
       </h1>
       <p class="portada__fecha etiqueta intro" style="--d:3.5s">
         <time datetime="2027-05-08">8 mayo 2027</time>

diff --git a/public/css/base.css b/public/css/base.css
@@ -1,20 +1,20 @@
 /* ==========================================================================
    Marta & Jorge · sistema de diseño compartido
-   Papel crema + tinta + caligrafía fina (Corinthia) + serif cursiva
+   Papel crema + tinta + caligrafía fina (Ephesis) + serif cursiva
    (Cormorant Garamond) + etiquetas en versalitas (Inter).
    Todo son variables: para retocar el estilo basta con tocar :root.
    ========================================================================== */
 
 /* ---------- Fuentes (autoalojadas y recortadas a lo que usa la página: ~60 KB en total) ----------
-   · Corinthia (caligrafía fina) en un solo peso: títulos. Los nombres de la portada no son texto sino un SVG con la
-     misma tipografía (ver scripts/intro). Su altura de letra es menor que la de una letra normal, así que se agranda
-     con size-adjust: los tamaños de los títulos (rem/vw) se leen como si fuera una letra de tamaño corriente.
+   · Ephesis (caligrafía fina de pluma) en un solo peso: títulos. Los nombres de la portada no son texto sino un SVG con
+     la misma tipografía (ver scripts/intro). Se ajusta con size-adjust para que los tamaños de los títulos (rem/vw)
+     se lean como los de una letra de tamaño corriente.
      El rango de pesos 100–900 evita que el navegador la «engorde» artificialmente si algún estilo pide negrita.
    · Cormorant solo en cursiva: todo el texto serif de la página es cursivo (si algún día se necesitara redonda,
      añadir el fichero y su @font-face; mientras tanto el texto «normal» saldría también en cursiva). También las cifras.
    · Inter 400/500 para etiquetas y formulario. Todas con subconjunto latino (español y lenguas vecinas). */
-@font-face { font-family: "Corinthia"; font-style: normal; font-weight: 100 900; font-display: swap; size-adjust: 145%;
-  src: url("../assets/fonts/corinthia-latin-400-normal.woff2") format("woff2"); }
+@font-face { font-family: "Ephesis"; font-style: normal; font-weight: 100 900; font-display: swap; size-adjust: 110%;
+  src: url("../assets/fonts/ephesis-latin-400-normal.woff2") format("woff2"); }
 @font-face { font-family: "Cormorant Garamond"; font-style: italic; font-weight: 400; font-display: swap;
   src: url("../assets/fonts/cormorant-garamond-latin-400-italic.woff2") format("woff2"); }
 @font-face { font-family: "Inter"; font-style: normal; font-weight: 400; font-display: swap;
@@ -46,7 +46,7 @@
   --ok: #4f6b45;
 
   /* tipografía */
-  --f-script: "Corinthia", "Snell Roundhand", "Apple Chancery", "Segoe Script", "Lucida Handwriting", cursive;
+  --f-script: "Ephesis", "Snell Roundhand", "Apple Chancery", "Segoe Script", "Lucida Handwriting", cursive;
   --f-serif: "Cormorant Garamond", "Iowan Old Style", Georgia, "Times New Roman", serif;
   --f-sans: "Inter", system-ui, -apple-system, "Segoe UI", Roboto, sans-serif;
 

diff --git a/public/css/rsvp.css b/public/css/rsvp.css
@@ -1,7 +1,7 @@
 /* ==========================================================================
    Marta & Jorge · formulario de confirmación de asistencia (RSVP)
    Solo usa los tokens de base.css y las fuentes que ya usa la página (Inter 400/500,
-   Cormorant cursiva, Corinthia): no añade descargas de fuentes. Todo cuelga de .rsvp / .rsvp-* para no
+   Cormorant cursiva, Ephesis): no añade descargas de fuentes. Todo cuelga de .rsvp / .rsvp-* para no
    chocar con site.css. Mobile-first: pensado para el pulgar (objetivos ≥ 44 px,
    texto de los campos ≥ 16 px para que iOS no haga zoom).
    ========================================================================== */
@@ -317,8 +317,7 @@
   fill: rgba(164, 86, 58, .12); stroke: var(--terracota); stroke-width: 1.6; stroke-linecap: round; stroke-linejoin: round;
 }
 .rsvp-gracias__titulo {
-  /* lleva el nombre que escribió cada persona: en cursiva serif, que se lee bien con cualquier inicial (las mayúsculas de la caligrafía son muy floridas) */
-  font-family: var(--f-serif); font-style: italic; font-weight: 400; font-size: clamp(2.6rem, 2rem + 2.8vw, 3.6rem);
+  font-family: var(--f-script); font-weight: 400; font-size: clamp(2.75rem, 2.1rem + 3vw, 3.75rem);
   line-height: 1.08; color: var(--tinta); overflow-wrap: anywhere; text-wrap: balance;
 }
 .rsvp-gracias__titulo:focus { outline: none; }

diff --git a/scripts/intro/ensamblar.py b/scripts/intro/ensamblar.py
@@ -12,12 +12,22 @@ from PIL import Image, ImageDraw
 ESC = 0.6
 PAD = 40
 
-# ---- Ajustes manuales de sentido y fusión (índices 1-based de trazo dentro del glifo) ----
-# Con Corinthia casi todos los trazos salen ya en el sentido natural; solo hay que invertir los que el esqueleto recorre
-# al revés (la subida de la M, el remate de la a, el empalme de la o y los dos trazos de la g).
-INVERTIR = {"M": [2], "a": [1], "o": [2], "g": [1, 2]}
-FUSIONES = {}
-
+# ---- Ajustes manuales (índices de trazo 1-based dentro de cada glifo, tal como salen numerados en debug_trazos.png) ----
+#   ("inv", k)           invierte el sentido del trazo k (para que se escriba como lo haría una mano)
+#   ("fus", i, j, inv)   pega al final del trazo i el trazo j (invertido si inv) y elimina el j
+#   ("partir", k, ref)   parte el trazo k por el punto más cercano al último punto del trazo ref: queda en dos (k y k+1)
+# Los índices valen en el estado actual: tras un «partir», los trazos siguientes se desplazan una posición.
+AJUSTES = {
+    "M": [("inv", 2), ("inv", 3)],                     # las dos subidas finas se escriben de abajo arriba y luego bajan
+    "a": [("inv", 2)],                                 # el cierre baja por el palo y sale hacia la derecha
+    "r": [("inv", 2)],                                 # el hombro parte del palo
+    "t": [("fus", 3, 2, True)],                        # el travesaño de izquierda a derecha, de una vez
+    "y": [("inv", 3)],
+    "J": [("partir", 1, 2), ("fus", 1, 3, True)],      # primero la barra de arriba entera, luego el palo con su gancho
+    "o": [("inv", 1), ("inv", 2)],                     # el óvalo en sentido antihorario y el empalme hacia la derecha
+    "g": [("inv", 2)],
+    "e": [("inv", 1)],                                 # empieza dentro del ojo y sale por la derecha
+}
 # (la velocidad de escritura, las pausas y la composición de las tres palabras están en svg.py)
 GRUESO_K = 1.0           # factor sobre el grosor de cobertura calculado
 
@@ -157,19 +167,28 @@ def completar_huecos(tr, mask, w_px, umbral=50, max_iter=60):
     return tr
 
 
+def aplicar_ajustes(nombre, tr):
+    tr = [np.array(t, dtype=float) for t in tr]
+    for op in AJUSTES.get(nombre, []):
+        if op[0] == "inv":
+            tr[op[1] - 1] = tr[op[1] - 1][::-1]
+        elif op[0] == "fus":
+            _, i, j, inv = op
+            a, b = tr[i - 1], tr[j - 1]
+            if inv:
+                b = b[::-1]
+            tr[i - 1] = np.vstack([a, b[1:]])
+            tr[j - 1] = None
+        elif op[0] == "partir":
+            _, k, ref = op
+            t, p = tr[k - 1], tr[ref - 1][-1]
+            idx = int(np.argmin(np.linalg.norm(t - p, axis=1)))
+            tr[k - 1:k] = [t[: idx + 1], t[idx:]]
+    return [t for t in tr if t is not None]
+
+
 def procesar_glifo(g):
-    tr = [np.array(t) for t in g["trazos_px"]]
-    # fusiones
-    for (i, j, inv) in FUSIONES.get(g["name"], ()):
-        a, b = tr[i - 1], tr[j - 1]
-        if inv:
-            b = b[::-1]
-        tr[i - 1] = np.vstack([a, b[1:]])
-        tr[j - 1] = None
-    tr = [t for t in tr if t is not None]
-    # sentidos
-    for k in INVERTIR.get(g["name"], []):
-        tr[k - 1] = tr[k - 1][::-1]
+    tr = aplicar_ajustes(g["name"], g["trazos_px"])
     # ancho base proporcional al trazo típico; se completan ápices/extremos; si falta cobertura se engorda
     w = 2 * g["r_med"] * 1.25
     tr2 = completar_huecos(tr, g["mask"], w)

diff --git a/scripts/intro/svg.py b/scripts/intro/svg.py
@@ -20,10 +20,10 @@ import os
 def _e(n, d): return float(os.environ.get(n, d))
 ESCALA_Y = _e("ESCALA_Y", 0.6)   # tamaño de la «y» respecto a las palabras
 ROT_Y = _e("ROT_Y", -8)           # grados
-SANGRIA_J = _e("SANGRIA_J", 150)  # «Jorge» queda alineado a la derecha de «Marta», recogido esta cantidad
-X_Y = _e("X_Y", 120)              # centro de la «y» respecto al centro de «Marta»
-HUECO_1 = _e("HUECO_1", 90)       # aire entre la base de «Marta» y lo más alto de la «y»
-HUECO_2 = _e("HUECO_2", -90)       # aire entre lo más bajo de la «y» y lo más alto de «Jorge»
+SANGRIA_J = _e("SANGRIA_J", 120)  # «Jorge» queda alineado a la derecha de «Marta», recogido esta cantidad
+X_Y = _e("X_Y", 420)              # centro de la «y» respecto al centro de «Marta»
+HUECO_1 = _e("HUECO_1", 70)       # aire entre la base de «Marta» y lo más alto de la «y»
+HUECO_2 = _e("HUECO_2", -120)       # aire entre lo más bajo de la «y» y lo más alto de «Jorge»
 MARGEN = _e("MARGEN", 40)         # margen de la caja de dibujo alrededor de la tinta
 
 

diff --git a/scripts/intro/glifos.py b/scripts/intro/glifos.py
@@ -1,4 +1,4 @@
-"""Etapa 1: glifos de «Marta», «y», «Jorge» en Corinthia -> contornos (unidades de fuente),
+"""Etapa 1: glifos de «Marta», «y», «Jorge» en la caligrafía de la portada -> contornos (unidades de fuente),
 máscara raster y esqueleto. Salida: pickle con todo + imagen de depuración."""
 import pickle
 import sys
@@ -12,7 +12,7 @@ from fontTools.ttLib import TTFont
 from PIL import Image, ImageChops, ImageDraw
 from skimage.morphology import skeletonize
 
-TTF = "corinthia400.ttf"   # lo deja generar.sh a partir de public/assets/fonts/corinthia-latin-400-normal.woff2
+TTF = "fuente.ttf"   # lo deja generar.sh a partir de la fuente autoalojada (public/assets/fonts/ephesis-latin-400-normal.woff2)
 ESC = 0.6  # píxeles por unidad de fuente para el raster (em = 600 px)
 PAD = 40   # margen del raster en px
 

diff --git a/scripts/intro/trazos.py b/scripts/intro/trazos.py
@@ -17,15 +17,15 @@ N8 = [(-1, -1), (-1, 0), (-1, 1), (0, -1), (0, 1), (1, -1), (1, 0), (1, 1)]
 # Preferencias de inicio por glifo: (u, v) en [0,1] dentro de la caja del glifo (0,0 = arriba-izquierda).
 # Se afinan a ojo viendo debug_trazos.png (cada trazo va numerado y con un círculo en su punto de partida).
 INICIO = {
-    "M": (0.0, 0.42),
-    "a": (0.65, 0.08),
-    "r": (0.0, 0.72),
-    "t": (0.95, 0.0),
+    "M": (0.19, 0.49),
+    "a": (0.78, 0.02),
+    "r": (0.0, 0.95),
+    "t": (0.98, 0.0),
     "y": (0.1, 0.05),
-    "J": (0.48, 0.33),
-    "o": (0.6, 0.0),
-    "g": (0.65, 0.08),
-    "e": (0.0, 0.5),
+    "J": (0.0, 0.05),
+    "o": (0.1, 0.05),
+    "g": (0.85, 0.05),
+    "e": (0.0, 0.45),
 }
 
 

diff --git a/docs/animacion-entrada.md b/docs/animacion-entrada.md
@@ -9,7 +9,7 @@ rebotes; todo es lento, suave y se puede saltar en cualquier momento.
 |---|---|
 | 0,2 – 2,3 | Un avión de papel cruza la parte alta dejando su estela de rayas terracota y hace un lazo en forma de corazón (la misma ruta que luego recorre en la Agenda) |
 | 0,75 | «¡Nos casamos!» aparece con un fundido suave |
-| 0,85 – 4,0 | **«Marta y Jorge» se escriben a pluma** con una caligrafía fina (Corinthia), trazo a trazo y en el orden en que se escribe cada letra (la M empieza por su lazo, la J baja y cierra en un bucle…). La «y», en terracota |
+| 0,85 – 4,0 | **«Marta y Jorge» se escriben a pluma** con una caligrafía fina de pluma (Ephesis), trazo a trazo y en el orden en que se escribe cada letra (la M empieza por su lazo, la J lleva primero su barra y luego baja en un gancho…). La «y», en terracota |
 | 1,2 – 2,8 | Se dibujan a línea las **puertas en arco** (contorno, costura, marcos y pomos) y después se rellenan de papel |
 | 3,0 – 4,5 | Las puertas **se abren en 3D**, con su sombra, y la foto aparece «enfocándose» (de borrosa a nítida, con un leve acercamiento) |
 | 3,5 – 4,6 | Fecha, cuenta atrás y botón entran con un fundido |
@@ -50,16 +50,17 @@ rebotes; todo es lento, suave y se puede saltar en cualquier momento.
 Los nombres escritos y el ornamento no están dibujados a mano: salen de scripts reproducibles en
 [`scripts/intro/`](../scripts/intro/).
 
-1. **Nombres** (`glifos.py` → `trazos.py` → `ensamblar.py` → `svg.py`): se toma la Corinthia
-   (`public/assets/fonts/corinthia-latin-400-normal.woff2`, licencia OFL), se calcula el
+1. **Nombres** (`glifos.py` → `trazos.py` → `ensamblar.py` → `svg.py`): se toma la Ephesis
+   (`public/assets/fonts/ephesis-latin-400-normal.woff2`, licencia OFL), se calcula el
    **esqueleto** de cada letra, se convierte en trazos de pluma ordenados (con sentido de escritura, ápices y
    extremos cubiertos) y se emite un SVG donde cada trazo grueso, **recortado por el contorno real de la letra**
    (`clipPath`), se «dibuja» con `stroke-dashoffset`. Al terminar cada letra entra su relleno exacto, así que el
    resultado final es idéntico a la tipografía. La composición (Marta arriba, la «y» pequeña y girada, Jorge
    recogido a la derecha) se calcula con las medidas reales de la tinta: se retoca en las constantes de `svg.py`
    (`ESCALA_Y`, `X_Y`, `HUECO_1`, `HUECO_2`, `SANGRIA_J`) o con variables de entorno del mismo nombre.
-   Si se cambia de tipografía hay que revisar `debug_trazos.png` (en `.tmp/`: cada trazo va numerado y con su punto de
-   partida) y ajustar `INICIO` en `trazos.py` e `INVERTIR` en `ensamblar.py`.
+   Para probar otra tipografía: `FUENTE=/ruta/a/otra.woff2 scripts/intro/generar.sh`; después hay que revisar
+   `debug_trazos.png` (en `.tmp/`: cada trazo va numerado y con su punto de partida) y ajustar `INICIO` en `trazos.py` y
+   `AJUSTES` en `ensamblar.py` (sentido de cada trazo, uniones y cortes) para que la escritura siga el orden natural.
 2. **Ornamento** (`ornamento.cjs`): muestrea la ruta de la ilustradora, parte la línea en sus 48 rayas, hace que
    cada una aparezca en la estela del avión y genera los 56 fotogramas CSS del vuelo con **la misma curva de
    easing**, para que avión y rayas vayan perfectamente sincronizados sin JavaScript.

diff --git a/README.md b/README.md
@@ -31,7 +31,7 @@ public/                 ← lo que se publica
   boda-marta-y-jorge.ics   «Añadir al calendario» (ceremonia y celebración)
   css/                  base.css (diseño: colores, fuentes) · site.css (secciones) · intro.css (entrada de la portada) · rsvp.css · mapa.css
   js/                   boot.js · main.js (animaciones, cuenta atrás, copiar IBAN) · intro.js (saltar la entrada, parallax) · rsvp.js · mapa.js
-  assets/fonts/         tipografías autoalojadas y recortadas (Corinthia, Cormorant cursiva, Inter 400/500: ~60 KB)
+  assets/fonts/         tipografías autoalojadas y recortadas (Ephesis, Cormorant cursiva, Inter 400/500: ~60 KB)
   assets/img/           fotos optimizadas (WebP), textura de papel, imagen para compartir (og.jpg)
   assets/ilustraciones/ SVG a pluma: San Pablo, Palomar, ruta, adornos, iconos, favicon (guía: docs/ilustraciones.md)
   admin/                panel de respuestas
